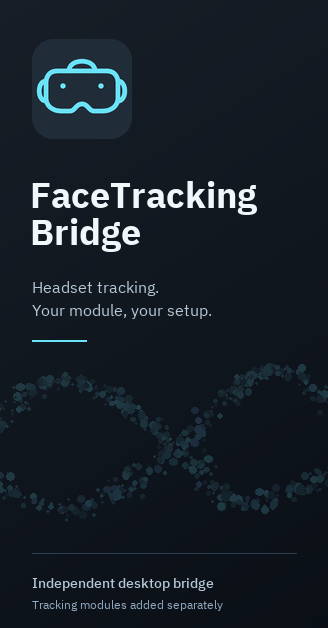
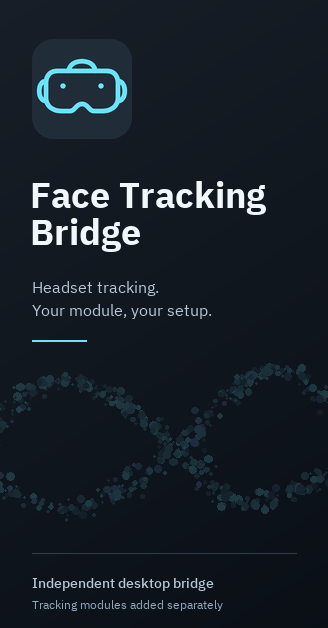
Rename display branding to Face Tracking Bridge

Changed region(s): [[0.3354, 0.2723, 0.8232, 0.3631]]

diff --git a/src/BabbleFrameBridge.App/MainWindow.xaml b/src/BabbleFrameBridge.App/MainWindow.xaml
@@ -1,11 +1,11 @@
 <!-- Copyright (c) 2026 Frame Bridge contributors. SPDX-License-Identifier: Apache-2.0 -->
 <Window x:Class="BabbleFrameBridge.App.MainWindow" xmlns="http://schemas.microsoft.com/winfx/2006/xaml/presentation" xmlns:x="http://schemas.microsoft.com/winfx/2006/xaml" xmlns:local="clr-namespace:BabbleFrameBridge.App"
- Title="FaceTracking Bridge" Width="1200" Height="900" MinWidth="1020" MinHeight="760" WindowStartupLocation="CenterScreen" Background="{DynamicResource Cream}" Foreground="{DynamicResource Ink}" FontFamily="{StaticResource BrandFont}" FontSize="14" UseLayoutRounding="True" TextOptions.TextFormattingMode="Display" AllowDrop="True" Drop="Window_Drop" DragOver="Window_DragOver" Icon="Assets/Brand/bridge-logo.png">
+ Title="Face Tracking Bridge" Width="1200" Height="900" MinWidth="1020" MinHeight="760" WindowStartupLocation="CenterScreen" Background="{DynamicResource Cream}" Foreground="{DynamicResource Ink}" FontFamily="{StaticResource BrandFont}" FontSize="14" UseLayoutRounding="True" TextOptions.TextFormattingMode="Display" AllowDrop="True" Drop="Window_Drop" DragOver="Window_DragOver" Icon="Assets/Brand/bridge-logo.png">
  <Grid>
   <Grid.ColumnDefinitions><ColumnDefinition Width="216"/><ColumnDefinition Width="*"/></Grid.ColumnDefinitions>
   <Border Background="{DynamicResource SidebarBackground}">
    <Grid Margin="18,26,18,22"><Grid.RowDefinitions><RowDefinition Height="Auto"/><RowDefinition Height="Auto"/><RowDefinition Height="*"/><RowDefinition Height="Auto"/></Grid.RowDefinitions>
-    <StackPanel><StackPanel Orientation="Horizontal" Margin="6,0,0,24"><Image Source="Assets/Brand/bridge-logo.png" Width="34" Height="34" Margin="0,0,10,0"/><TextBlock x:Name="BrandWordmark" Text="FaceTracking Bridge" Width="126" LineHeight="21" Foreground="{DynamicResource HeroInk}" FontWeight="Bold" FontSize="17" VerticalAlignment="Center" AutomationProperties.Name="FaceTracking Bridge"/></StackPanel>
+    <StackPanel><StackPanel Orientation="Horizontal" Margin="6,0,0,24"><Image Source="Assets/Brand/bridge-logo.png" Width="34" Height="34" Margin="0,0,10,0"/><TextBlock x:Name="BrandWordmark" Text="Face Tracking Bridge" Width="126" LineHeight="21" Foreground="{DynamicResource HeroInk}" FontWeight="Bold" FontSize="17" VerticalAlignment="Center" AutomationProperties.Name="Face Tracking Bridge"/></StackPanel>
      <Border Height="1" Background="{DynamicResource SidebarDivider}" Margin="5,0,5,23"/><TextBlock Text="TRACKING WORKSPACE" Foreground="{DynamicResource SidebarMuted}" FontSize="10" FontWeight="SemiBold" Margin="14,0,0,14"/>
     </StackPanel>
     <StackPanel Grid.Row="1">
@@ -30,7 +30,7 @@
   <Grid Grid.Column="1" Margin="32,25,32,18">
    <Grid.RowDefinitions><RowDefinition Height="Auto"/><RowDefinition Height="Auto"/><RowDefinition Height="*"/><RowDefinition Height="Auto"/></Grid.RowDefinitions>
    <Grid Margin="0,0,0,23"><Grid.ColumnDefinitions><ColumnDefinition Width="*"/><ColumnDefinition Width="Auto"/></Grid.ColumnDefinitions>
-    <StackPanel><TextBlock x:Name="PageTitle" Text="FaceTracking Bridge" Style="{StaticResource PageHeading}"/><TextBlock x:Name="PageSubtitle" Text="Your expressions, connected." Foreground="{DynamicResource Muted}" FontSize="13" Margin="0,3,0,0"/></StackPanel>
+    <StackPanel><TextBlock x:Name="PageTitle" Text="Face Tracking Bridge" Style="{StaticResource PageHeading}"/><TextBlock x:Name="PageSubtitle" Text="Your expressions, connected." Foreground="{DynamicResource Muted}" FontSize="13" Margin="0,3,0,0"/></StackPanel>
     <Border Grid.Column="1" CornerRadius="16" Background="{DynamicResource SoftBackground}" Padding="12,7" VerticalAlignment="Center"><StackPanel Orientation="Horizontal"><Ellipse Width="6" Height="6" Fill="{DynamicResource Accent}" Margin="0,0,7,0"/><TextBlock x:Name="ProviderTag" MaxWidth="240" TextWrapping="NoWrap" TextTrimming="CharacterEllipsis" Text="MODULES" Foreground="{DynamicResource AccentInk}" FontWeight="SemiBold" FontSize="10"/></StackPanel></Border>
    </Grid>
    <Border x:Name="GlobalNotice" Grid.Row="1" Visibility="Collapsed" Background="{DynamicResource ErrorBackground}" BorderBrush="{DynamicResource ErrorBorder}" BorderThickness="1" CornerRadius="12" Padding="14,9" Margin="0,0,0,14"><Grid><Grid.ColumnDefinitions><ColumnDefinition Width="*"/><ColumnDefinition Width="Auto"/></Grid.ColumnDefinitions><TextBlock x:Name="GlobalNoticeText" FontSize="12" Foreground="{DynamicResource ErrorInk}" VerticalAlignment="Center" TextWrapping="Wrap"/><Button x:Name="GlobalNoticeDismiss" Grid.Column="1" Content="×" Style="{StaticResource LinkButton}" Foreground="{Binding Foreground,ElementName=GlobalNoticeText}" FontSize="20" Padding="6,0" Margin="10,0,0,0" ToolTip="Dismiss notification" AutomationProperties.Name="Dismiss notification" Click="DismissNotice_Click"/></Grid></Border>

diff --git a/tests/BabbleFrameBridge.Appearance.Tests/Program.cs b/tests/BabbleFrameBridge.Appearance.Tests/Program.cs
@@ -194,11 +194,11 @@ internal static class Program
 
             Test("the interface uses its module library without obsolete source controls or sidebar cards", () =>
             {
-                Check(window.Title == "FaceTracking Bridge", "The window still uses the previous product name.");
-                Check(Named<TextBlock>(window, "PageTitle").Text == "FaceTracking Bridge",
+                Check(window.Title == "Face Tracking Bridge", "The window still uses the previous product name.");
+                Check(Named<TextBlock>(window, "PageTitle").Text == "Face Tracking Bridge",
                     "The overview heading does not use the new product name.");
                 var wordmark = Named<TextBlock>(window, "BrandWordmark");
-                Check(wordmark.Text == "FaceTracking Bridge", "The sidebar still uses the previous product name.");
+                Check(wordmark.Text == "Face Tracking Bridge", "The sidebar still uses the previous product name.");
                 var previousWidth = window.Width;
                 var previousTheme = themes.CurrentIsDark;
                 try
@@ -210,6 +210,11 @@ internal static class Program
                     var navigationBounds = navigation.TransformToAncestor(window).TransformBounds(new Rect(navigation.RenderSize));
                     Check(wordmarkBounds.Right <= navigationBounds.Right + .5 && wordmarkBounds.Bottom < navigationBounds.Top,
                         "The longer product name overlaps navigation or exceeds the sidebar.");
+                    var firstLine = new FormattedText("Face Tracking", System.Globalization.CultureInfo.InvariantCulture,
+                        wordmark.FlowDirection, new Typeface(wordmark.FontFamily, wordmark.FontStyle, wordmark.FontWeight, wordmark.FontStretch),
+                        wordmark.FontSize, wordmark.Foreground, VisualTreeHelper.GetDpi(wordmark).PixelsPerDip);
+                    Check(firstLine.WidthIncludingTrailingWhitespace <= wordmark.ActualWidth + .5,
+                        "The spaced brand name cannot fit cleanly on two sidebar lines.");
                     var heading = Named<TextBlock>(window, "PageTitle");
                     var titleText = new FormattedText(heading.Text, System.Globalization.CultureInfo.InvariantCulture,
                         heading.FlowDirection, new Typeface(heading.FontFamily, heading.FontStyle, heading.FontWeight, heading.FontStretch),
@@ -231,7 +236,8 @@ internal static class Program
                 foreach (var name in new[] { "HeadsetSourceButton", "DesktopSourceButton", "TrackingInputPort", "MotionBox" })
                     Check(window.FindName(name) is null, "An obsolete control remains: " + name);
                 var text = string.Join("\n", Descendants(window).OfType<TextBlock>().Select(block => block.Text));
-                Check(!text.Contains("Babble Bridge", StringComparison.OrdinalIgnoreCase),
+                Check(!text.Contains("Babble Bridge", StringComparison.OrdinalIgnoreCase)
+                    && !text.Contains("FaceTracking Bridge", StringComparison.Ordinal),
                     "The interface still displays the previous product name.");
                 foreach (var removed in new[] { "Made for your headset", "Appearance follows Windows", "Updates, with a way back", "Keep VRCFaceTracking closed" })
                     Check(!text.Contains(removed, StringComparison.OrdinalIgnoreCase), "An obsolete information card remains: " + removed);

diff --git a/src/BabbleFrameBridge.App/App.xaml.cs b/src/BabbleFrameBridge.App/App.xaml.cs
@@ -28,10 +28,10 @@ public partial class App : Application
             // Constructor failures happen before the window is shown. Handling them
             // only through DispatcherUnhandledException leaves an invisible instance
             // holding the single-instance and installer mutexes.
-            MessageBox.Show("FaceTracking Bridge could not start.\n\n" + error.Message
+            MessageBox.Show("Face Tracking Bridge could not start.\n\n" + error.Message
                 + "\n\nYour settings and imported module files have been preserved. Check the saved settings and module files in:\n"
-                + root + "\n\nRestore a valid saved backup or correct the reported file problem, then open FaceTracking Bridge again.",
-                "FaceTracking Bridge startup", MessageBoxButton.OK, MessageBoxImage.Error);
+                + root + "\n\nRestore a valid saved backup or correct the reported file problem, then open Face Tracking Bridge again.",
+                "Face Tracking Bridge startup", MessageBoxButton.OK, MessageBoxImage.Error);
             Shutdown(1);
         }
     }
@@ -42,7 +42,7 @@ public partial class App : Application
         if (dataIndex >= 0 && dataIndex + 1 < e.Args.Length) root = Path.GetFullPath(e.Args[dataIndex + 1]);
         var key = Convert.ToHexString(SHA256.HashData(Encoding.UTF8.GetBytes(root.ToUpperInvariant())))[..20];
         _instance = new Mutex(true, "Local\\BabbleFrameBridge-" + key, out var first);
-        if (!first) { MessageBox.Show("FaceTracking Bridge is already open.", "FaceTracking Bridge"); Shutdown(); return; }
+        if (!first) { MessageBox.Show("Face Tracking Bridge is already open.", "Face Tracking Bridge"); Shutdown(); return; }
         // Stable presence marker lets future installers detect even portable copies.
         // Profile mutexes continue to keep normal and diagnostic data isolated.
         _installerPresence = new Mutex(false, "Local\\FrameBridge.Desktop");
@@ -55,7 +55,7 @@ public partial class App : Application
             RegisterApplicationRestart("", 1 | 2 | 8);
         }
         DispatcherUnhandledException += (_, error) => {
-            MessageBox.Show(error.Exception.Message, "FaceTracking Bridge", MessageBoxButton.OK, MessageBoxImage.Error);
+            MessageBox.Show(error.Exception.Message, "Face Tracking Bridge", MessageBoxButton.OK, MessageBoxImage.Error);
             error.Handled = true;
         };
         _theme = new SystemThemeManager(this);

diff --git a/installer/assets/generate-art.py b/installer/assets/generate-art.py
@@ -1,10 +1,10 @@
 # Copyright (c) 2026 Frame Bridge contributors.
 # SPDX-License-Identifier: Apache-2.0
 
-"""Generate original FaceTracking Bridge artwork. Requires Python3 and Pillow.
+"""Generate original Face Tracking Bridge artwork. Requires Python3 and Pillow.
 
 The headset mark, closed spline motif, layout and colors below are original
-FaceTracking Bridge assets. No Project Babble or VRChat logo is used.
+Face Tracking Bridge assets. No Project Babble or VRChat logo is used.
 IBM Plex Sans is an unmodified OFL1.1 font; its license stays with the app.
 """
 from pathlib import Path
@@ -102,7 +102,7 @@ def main():
     panel=Image.alpha_composite(panel,flow)
     panel.alpha_composite(logo.resize((100,100),Image.Resampling.LANCZOS),(32,39))
     text=ImageDraw.Draw(panel)
-    text.multiline_text((30,171),'FaceTracking\nBridge',font=font('Bold',36),fill='#F2F7FC',spacing=0)
+    text.multiline_text((30,171),'Face Tracking\nBridge',font=font('Bold',36),fill='#F2F7FC',spacing=0)
     text.multiline_text((32,276),'Headset tracking.\nYour module, your setup.',font=font('Regular',16),fill='#B6C8D8',spacing=6)
     text.line((32,340,86,340),fill='#6AE3F9',width=2)
     text.line((32,553,296,553),fill='#2C3E50',width=1)

diff --git a/src/BabbleFrameBridge.Worker/Program.cs b/src/BabbleFrameBridge.Worker/Program.cs
@@ -399,7 +399,7 @@ internal static class Program
         if (error is FileNotFoundException or FileLoadException)
             return "A module dependency could not be loaded. A standalone DLL may need other files; import the author's complete module ZIP with its dependencies. " + error.Message;
         if (error is MissingMethodException or MissingFieldException or TypeLoadException)
-            return "The module or one of its dependencies requires an SDK API this build does not provide. Use a module compatible with the VRCFaceTracking 5.4.1 SDK, or update FaceTracking Bridge. " + error.Message;
+            return "The module or one of its dependencies requires an SDK API this build does not provide. Use a module compatible with the VRCFaceTracking 5.4.1 SDK, or update Face Tracking Bridge. " + error.Message;
         if (error is BadImageFormatException)
             return "The selected module or a dependency is not a compatible Windows x64 .NET assembly. Import the author's compiled Windows x64 VRCFaceTracking module package. " + error.Message;
         return error.Message;

diff --git a/src/BabbleFrameBridge.Worker/AvatarRouter.cs b/src/BabbleFrameBridge.Worker/AvatarRouter.cs
@@ -239,7 +239,7 @@ internal sealed class AvatarRouter : IAsyncDisposable
                 var context = await listener!.GetContextAsync().WaitAsync(stop.Token);
                 var hostInfo = context.Request.RawUrl?.Contains("HOST_INFO", StringComparison.OrdinalIgnoreCase) == true;
                 object response = hostInfo
-                    ? new { NAME = "FaceTracking Bridge", OSC_IP = "127.0.0.1", OSC_PORT = settings.ReceivePort, OSC_TRANSPORT = "UDP" }
+                    ? new { NAME = "Face Tracking Bridge", OSC_IP = "127.0.0.1", OSC_PORT = settings.ReceivePort, OSC_TRANSPORT = "UDP" }
                     : new { FULL_PATH = "/", CONTENTS = new Dictionary<string, object> { ["avatar"] = new { FULL_PATH = "/avatar", CONTENTS = new Dictionary<string, object> { ["change"] = new { FULL_PATH = "/avatar/change", ACCESS = 2, TYPE = "s" } } } } };
                 var bytes = Encoding.UTF8.GetBytes(System.Text.Json.JsonSerializer.Serialize(response));
                 context.Response.ContentType = "application/json";

diff --git a/src/BabbleFrameBridge.App/MainWindow.xaml.cs b/src/BabbleFrameBridge.App/MainWindow.xaml.cs
@@ -888,7 +888,7 @@ public partial class MainWindow : Window
             "modules" => ("Modules", "Your headset. Your choice of module."),
             "settings" => ("Connection", "Keep your expressions flowing."),
             "activity" => ("Activity log", "A clear view of your tracking session."),
-            _ => ("FaceTracking Bridge", "Your expressions, connected.")
+            _ => ("Face Tracking Bridge", "Your expressions, connected.")
         };
     }
 

diff --git a/README.md b/README.md
@@ -1,4 +1,4 @@
-# FaceTracking Bridge
+# Face Tracking Bridge
 
 <h2 align="center">
   <a href="https://github.com/ClassicWasTaken/FaceTrackingBridge/releases/latest/download/FaceTracking-Bridge-Setup.exe">⬇ Download for Windows (.exe)</a>
@@ -10,7 +10,7 @@
 
 A Windows app that bridges eye and face tracking to VRChat through compatible **VRCFaceTracking SDK** modules. Supports Babble Headset Runtime, Baballonia desktop, Virtual Desktop, and Steam Link, with Jerry’s templates and VRChat’s native face-tracking SDK beta.
 
-![FaceTracking Bridge running on Windows](docs/images/app-running.jpg)
+![Face Tracking Bridge running on Windows](docs/images/app-running.jpg)
 
 ## Get started
 

diff --git a/THIRD_PARTY_NOTICES.md b/THIRD_PARTY_NOTICES.md
@@ -1,6 +1,6 @@
 # Third-party copyrights and licenses
 
-The original FaceTracking Bridge code and original headset artwork are
+The original Face Tracking Bridge code and original headset artwork are
 Copyright (c) 2026 Frame Bridge contributors, licensed under [Apache 2.0](LICENSE).
 Third-party works retain their own copyrights and terms. This file maps those
 works to the full notices preserved in the repository and distribution.
